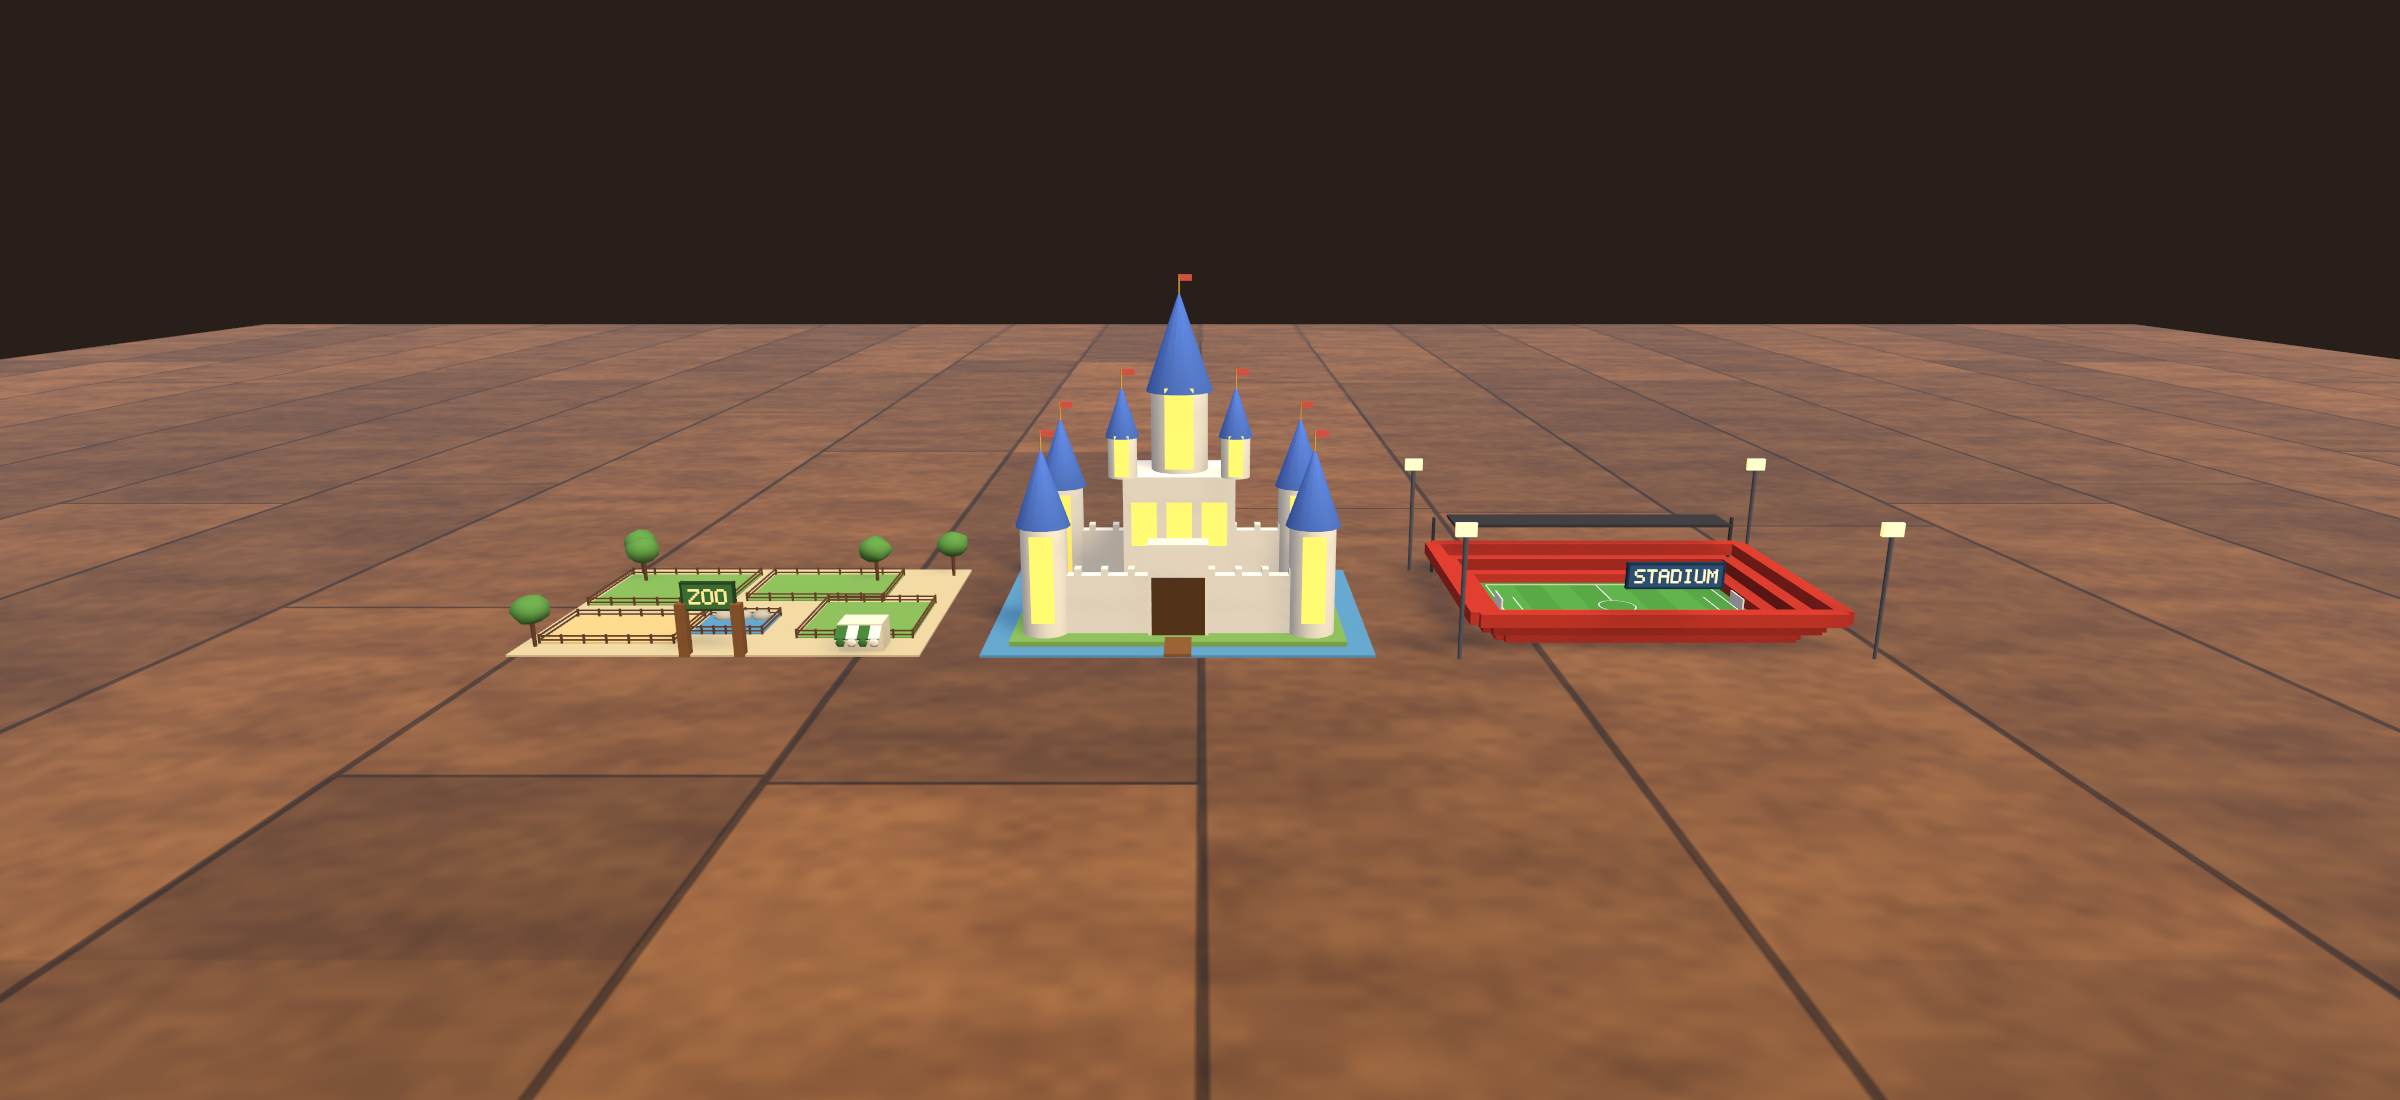
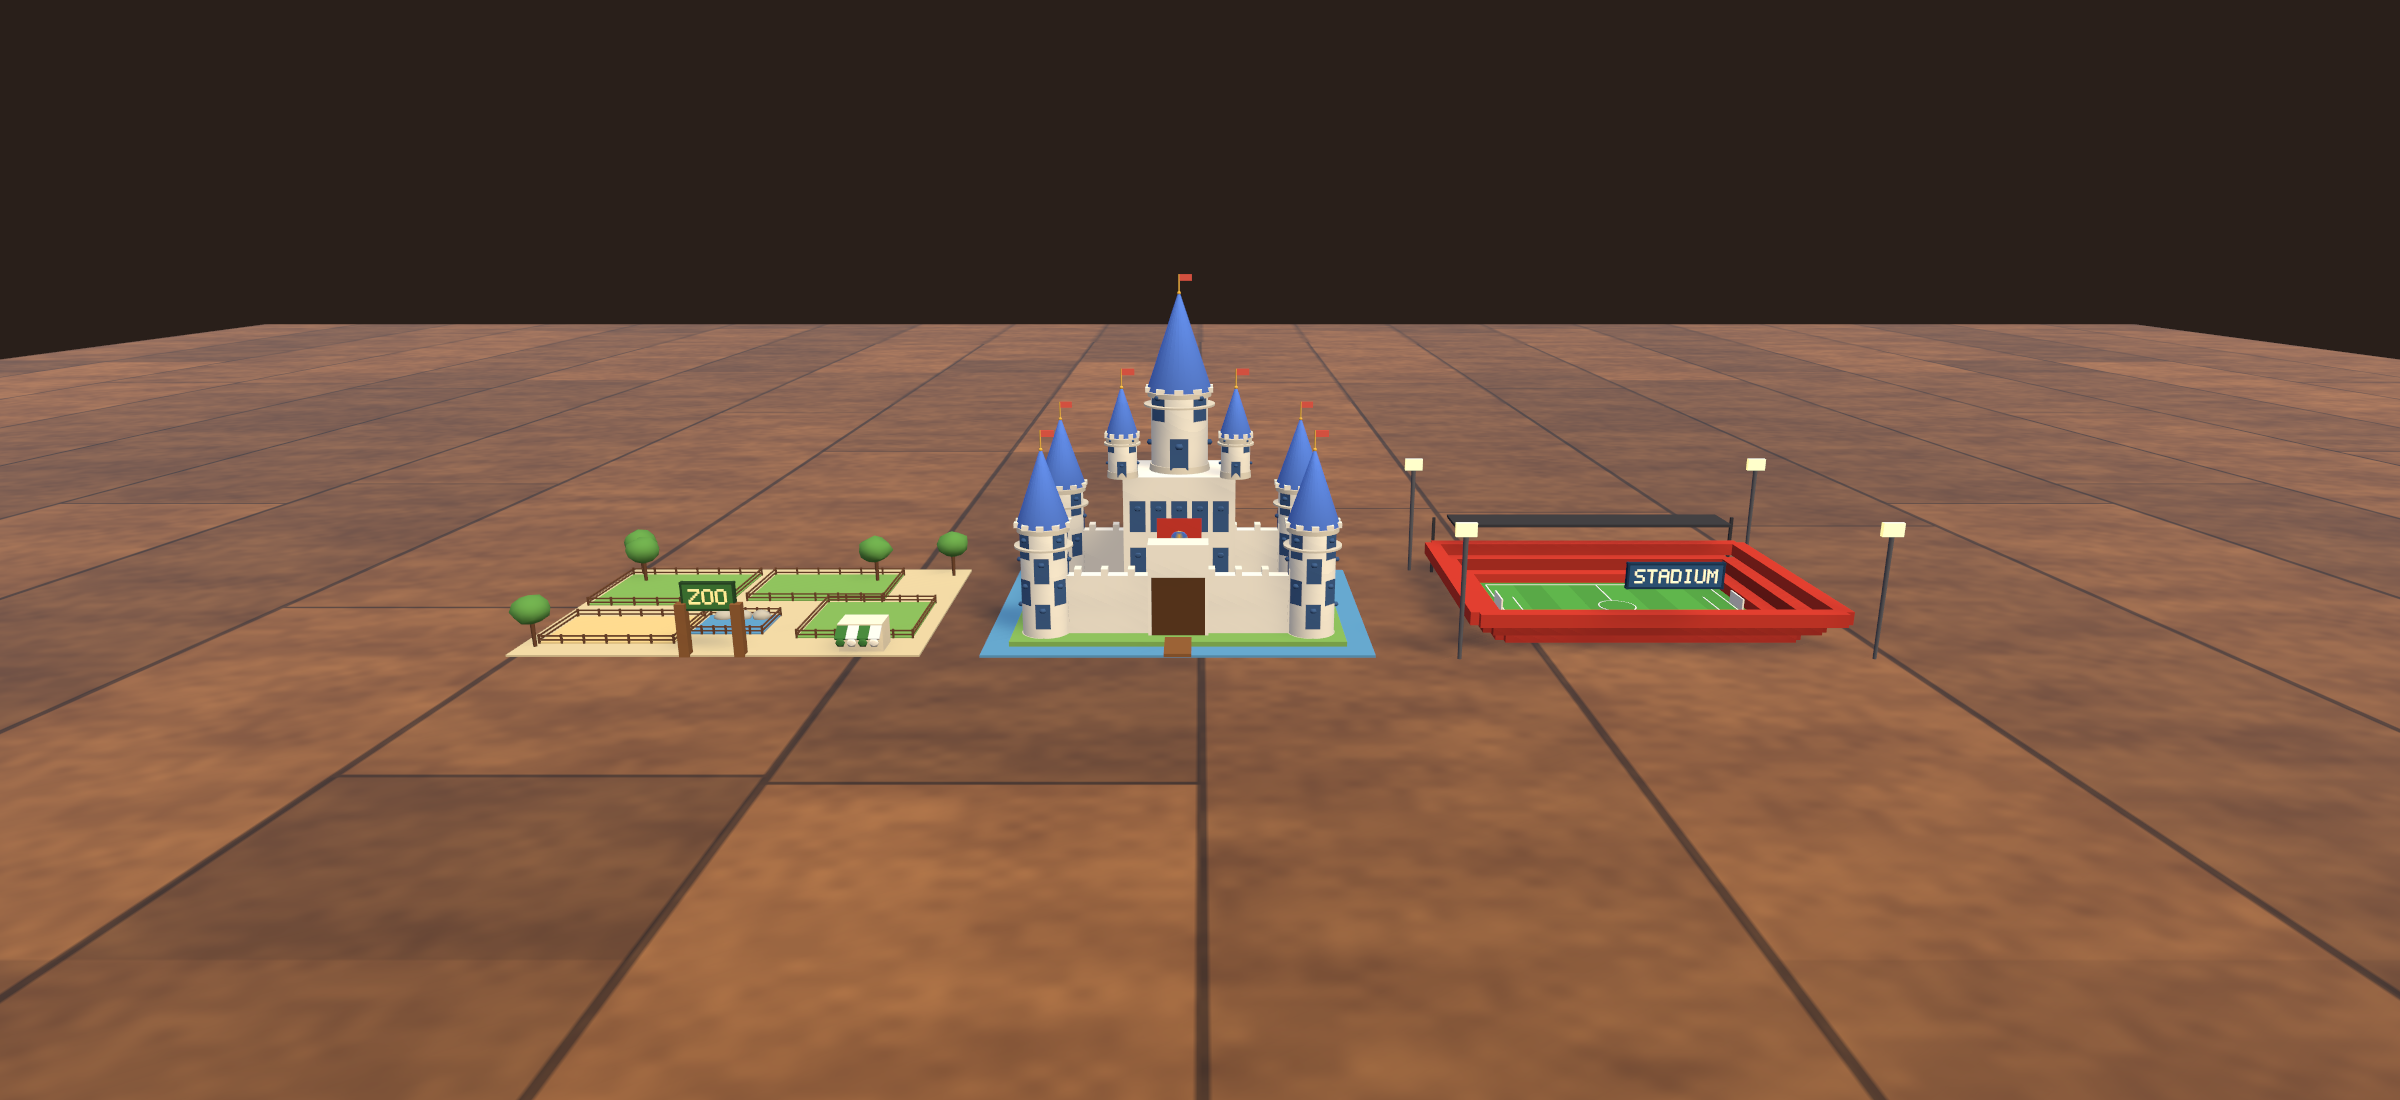
Fairy-tale castle in finer detail: smooth towers and cones, rows of narrow windows, balconies, cornices, battlements, gold bands, a rose window
Its towers and cones had 14 sides and big glowing windows - it looked low poly close up. Now 28 (the level-of-detail
system still simplifies it far away).

Changed region(s): [[0.4062, 0.34, 0.5625, 0.5873]]

diff --git a/Assets/Wonderland/Scripts/Assets/HouseFactory.Living.cs b/Assets/Wonderland/Scripts/Assets/HouseFactory.Living.cs
@@ -366,18 +366,47 @@ namespace Wonderland
             float hx = W / 2 - 0.02f, hz = D / 2 - 0.02f;
             Wall(new Vector3(-hx, 0f, -hz), new Vector3(hx, 0f, -hz)); Wall(new Vector3(-hx, 0f, hz), new Vector3(hx, 0f, hz));
             Wall(new Vector3(-hx, 0f, -hz), new Vector3(-hx, 0f, hz)); Wall(new Vector3(hx, 0f, -hz), new Vector3(hx, 0f, hz));
+            var stone = Pal.Hex("#D8D0C0"); var glass = Pal.Hex("#3A5A8A");
             void Tower(Vector3 at, float r, float h, float cone)
             {
-                b.AddCylinder(at, r, r, h, 14, wall, Pal.Shade(wall, 1.05f), true);
-                for (int k = 0; k < 3; k++) b.AddFace(at + new Vector3(0f, h * (0.35f + k * 0.22f), -r - 0.0004f), Vector3.back, Vector3.up, r * 0.5f, r * 0.8f, Pal.Glow(Pal.WindowGlow));
-                b.AddCylinder(at + Vector3.up * h, r * 1.18f, 0.0006f, cone, 14, roof, Pal.Shade(roof, 1.2f), true);
-                b.AddCylinder(at + Vector3.up * (h + cone), 0.0005f, 0.0005f, 0.012f, 4, gold, gold, false);
+                b.AddCylinder(at, r, r, h, 28, wall, Pal.Shade(wall, 1.05f), true);
+                b.AddCylinder(at, r * 1.08f, r * 1.04f, 0.004f, 28, stone, stone, true);   // the plinth
+                // Narrow arched windows round the tower, a storey apart, a balcony under the top one.
+                int storeys = Mathf.Max(2, Mathf.RoundToInt(h / 0.02f));
+                for (int k = 0; k < storeys; k++)
+                {
+                    float y = h * (0.25f + 0.6f * k / Mathf.Max(1, storeys - 1));
+                    for (int side = 0; side < 4; side++)
+                    {
+                        var dir = Quaternion.Euler(0f, side * 90f + k * 45f, 0f) * Vector3.back;
+                        var c = at + Vector3.up * y + dir * (r + 0.0003f);
+                        b.AddFace(c, dir, Vector3.up, r * 0.3f, r * 0.6f, glass);
+                    }
+                }
+                b.AddCylinder(at + Vector3.up * (h * 0.82f), r * 1.25f, r * 1.25f, 0.0012f, 28, stone, stone, true, true);   // a balcony
+                b.AddCylinder(at + Vector3.up * (h - 0.003f), r * 1.12f, r * 1.12f, 0.003f, 28, stone, stone, true, true);   // the cornice
+                for (int k = 0; k < 10; k++)
+                {
+                    var d = Quaternion.Euler(0f, k * 36f, 0f) * Vector3.forward * r * 1.08f;
+                    b.AddBox(at + d + Vector3.up * (h + 0.0015f), new Vector3(r * 0.3f, 0.003f, r * 0.3f), wall);   // battlements
+                }
+                b.AddCylinder(at + Vector3.up * (h + 0.0005f), r * 1.15f, 0.0006f, cone, 28, roof, Pal.Shade(roof, 1.25f), true);
+                for (int k = 0; k < 4; k++) b.AddCylinder(at + Vector3.up * (h + cone * (0.25f + k * 0.2f)), r * 1.15f * (1f - (0.25f + k * 0.2f)) + 0.0003f, r * 1.15f * (1f - (0.27f + k * 0.2f)) + 0.0003f, cone * 0.02f, 28, gold, gold, false);   // gold bands
+                b.AddCylinder(at + Vector3.up * (h + cone), 0.0005f, 0.0005f, 0.012f, 6, gold, gold, false);
+                b.AddBlob(at + Vector3.up * (h + cone + 0.0005f), Vector3.one * 0.0012f, 1, 0f, 7, (_, __) => gold);
                 b.AddBox(at + new Vector3(0.004f, h + cone + 0.01f, 0f), new Vector3(0.008f, 0.004f, 0.0006f), Pal.Hex("#E25B4F"));   // a pennant
             }
             foreach (int sx in new[] { -1, 1 }) foreach (int sz in new[] { -1, 1 }) Tower(new Vector3(sx * hx, 0f, sz * hz), 0.014f, 0.07f, 0.045f);
             // The keep in the middle, taller, with its own turrets.
             b.AddBox(new Vector3(0f, 0.045f, 0.015f), new Vector3(0.07f, 0.09f, 0.055f), wall, Pal.Shade(wall, 1.05f), Pal.Shade(wall, 0.8f));
-            for (int k = 0; k < 3; k++) b.AddFace(new Vector3(-0.022f + k * 0.022f, 0.06f, 0.015f - 0.0276f), Vector3.back, Vector3.up, 0.008f, 0.014f, Pal.Glow(Pal.WindowGlow));
+            for (int row = 0; row < 2; row++)
+                for (int k = 0; k < 5; k++)
+                {
+                    var c = new Vector3(-0.026f + k * 0.013f, 0.035f + row * 0.03f, 0.015f - 0.0277f);
+                    b.AddFace(c, Vector3.back, Vector3.up, 0.005f, 0.01f, Pal.Hex("#3A5A8A"));
+                }
+            b.AddFace(new Vector3(0f, 0.05f, 0.015f - 0.0278f), Vector3.back, Vector3.up, 0.014f, 0.014f, Pal.Hex("#C8392E"));   // a great rose window
+            b.AddBlob(new Vector3(0f, 0.05f, 0.015f - 0.0282f), new Vector3(0.006f, 0.006f, 0.0006f), 1, 0f, 70, (d, _) => Mathf.Abs(d.x) < 0.2f || Mathf.Abs(d.y) < 0.2f ? Pal.Brass : Pal.Hex("#4A6FC8"));
             Tower(new Vector3(0f, 0.09f, 0.015f), 0.018f, 0.05f, 0.06f);
             foreach (int sx in new[] { -1, 1 }) Tower(new Vector3(sx * 0.035f, 0.09f, -0.01f), 0.009f, 0.025f, 0.03f);
             // Gatehouse and drawbridge.

diff --git a/Assets/Wonderland/Editor/WonderlandJourney.Living.cs b/Assets/Wonderland/Editor/WonderlandJourney.Living.cs
@@ -615,6 +615,7 @@ namespace Wonderland.Editor
                 new[] { Catalog.Sawmill, Catalog.FurnitureShop, Catalog.IceCream, Catalog.Pub, Catalog.Hotel, Catalog.PostOffice },
                 new[] { Catalog.TaxiRank, Catalog.Letterbox, Catalog.CarPark, Catalog.FreightYard, Catalog.Harbour },
                 new[] { Catalog.Zoo, Catalog.FairyCastle, Catalog.Stadium },
+                new[] { Catalog.FairyCastle },
             };
             for (int set = 0; set < sets.Length; set++)
             {
@@ -628,7 +629,7 @@ namespace Wonderland.Editor
                     WonderlandRenders.Place(root, HouseFactory.Get(id, 0), WonderlandMaterials.Lit, new Vector3(x + w / 2f, 0f, 0f), Quaternion.identity);
                     x += w;
                 }
-                float back = set == 0 ? 0.95f : set == 1 ? 0.75f : 0.8f;
+                float back = set == 0 ? 0.95f : set == 1 ? 0.75f : set == 2 ? 0.8f : 0.32f;
                 cam.transform.position = new Vector3(0f, back * 0.32f, -back); cam.transform.LookAt(new Vector3(0f, 0.04f, 0f));
                 WonderlandRenders.Capture(cam, $"living-buildings-{set + 1}.png", 2400, 1100);
                 UnityEngine.Object.DestroyImmediate(root.gameObject);
